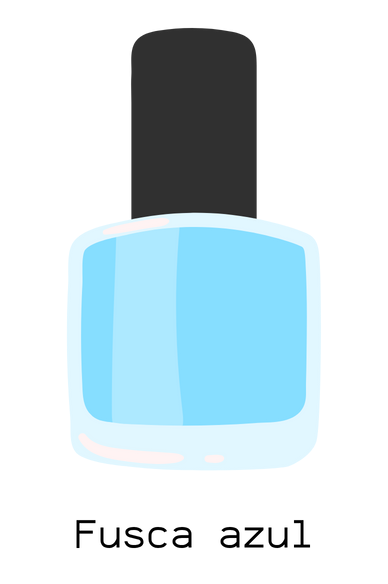
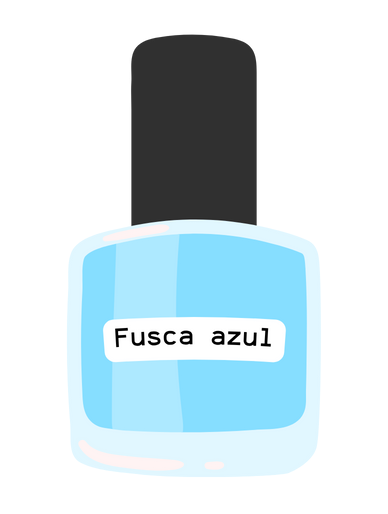
atualizando design dos esmaltes

Changed region(s): [[0.1546, 0.5914, 0.8351, 0.965], [0.1546, 0.3424, 0.8351, 0.5914], [0.3402, 0.0311, 0.6804, 0.1245]]

diff --git a/js/nails.js b/js/nails.js
@@ -8,19 +8,20 @@ let som = new Audio();
 som.src = "https://www.soundjay.com/buttons/sounds/button-7.mp3";
 
 const esmaltes = [
-    {img: 'e1.png'},
-    {img: 'e2.png'},
-    {img: 'e3.png'},
-    {img: 'e4.png'},
-    {img: 'e5.png'},
-    {img: 'e6.png'},
-    {img: 'e7.png'},
-    {img: 'e8.png'},
-    {img: 'e9.png'},
-    {img: 'e10.png'},
-    {img: 'e11.png'},
-    {img: 'e12.png'},
-    {img: 'e13.png'},
+    {img: 'e1.png', nome: 'Noite estrelada'},
+    {img: 'e2.png', nome: 'Café com leite'},
+    {img: 'e3.png', nome: 'Algodão doce'},
+    {img: 'e4.png', nome: 'Maçã do amor'},
+    {img: 'e5.png', nome: 'Fusca azul'},
+    {img: 'e6.png', nome: 'Abacate'},
+    {img: 'e7.png', nome: 'Fúria da noite'},
+    {img: 'e8.png', nome: 'Xote da alegria'},
+    {img: 'e9.png', nome: 'Coração indomável'},
+    {img: 'e10.png', nome: 'Magia de unicórnio'},
+    {img: 'e11.png', nome: 'Sapatinhos de rubi'},
+    {img: 'e12.png', nome: 'Jerimum'},
+    {img: 'e13.png', nome: 'Cisne negro'},
+    {img: 'e14.png', nome: 'Nevou'},
 ]
 
 const esmalteGrid = document.querySelector('.caixa-esmaltes');
@@ -29,14 +30,15 @@ esmaltes.forEach((esmalte, index) => {
     esmalteDiv.classList.add('esmalte');
     esmalteDiv.innerHTML = `<img src="./images/esmaltes/${esmalte.img}">`;
     esmalteDiv.addEventListener('click', () => {
-        const nailGrid = document.querySelector('.caixa-unha');
-        nailGrid.innerHTML = `<img src="./images/unhas/${esmalte.img}">`;
+        const nailDiv = document.querySelector('.unha-escolhida');
+        nailDiv.innerHTML = `<img src="./images/unhas/${esmalte.img}">`;
         sessionStorage.setItem('selectedNail', esmalte.img);
+        sessionStorage.setItem('selectedColor', esmalte.nome);
     });
     esmalteGrid.appendChild(esmalteDiv);
 });
 
-const btnNext = document.querySelector('.btn-next');
+const btnNext = document.querySelector('.btn-prox');
 btnNext.addEventListener('click', () => {
     som.play();
     som.onended = () => {

diff --git a/css/nails.css b/css/nails.css
@@ -89,7 +89,7 @@ body {
     transition: transform 0.3s ease-in-out;
 }
 
-.caixa-unha {
+.unha-escolhida {
     width: 100%;
     height: 100%;
     display: flex;
@@ -98,7 +98,7 @@ body {
     position: absolute;
 }
 
-.caixa-unha img {
+.unha-escolhida img {
     max-height: 100%;
     max-width: 100%;
     object-fit: contain;

diff --git a/nails.html b/nails.html
@@ -11,7 +11,7 @@
 <body>
     <div class="caixa-nails">
         <div class="caixa-mao">
-            <div class="caixa-unha"></div>
+            <div class="unha-escolhida"></div>
         </div>
         <div class="caixa-esmaltes"></div>
         <div class="btn-prox"><span>➜</span></div>
